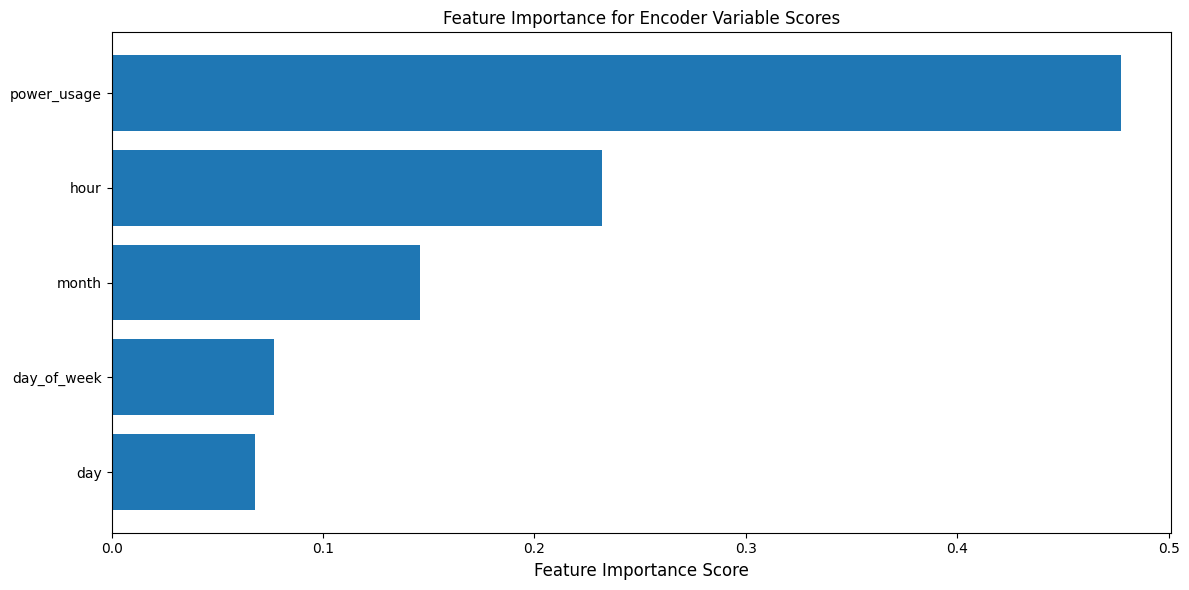
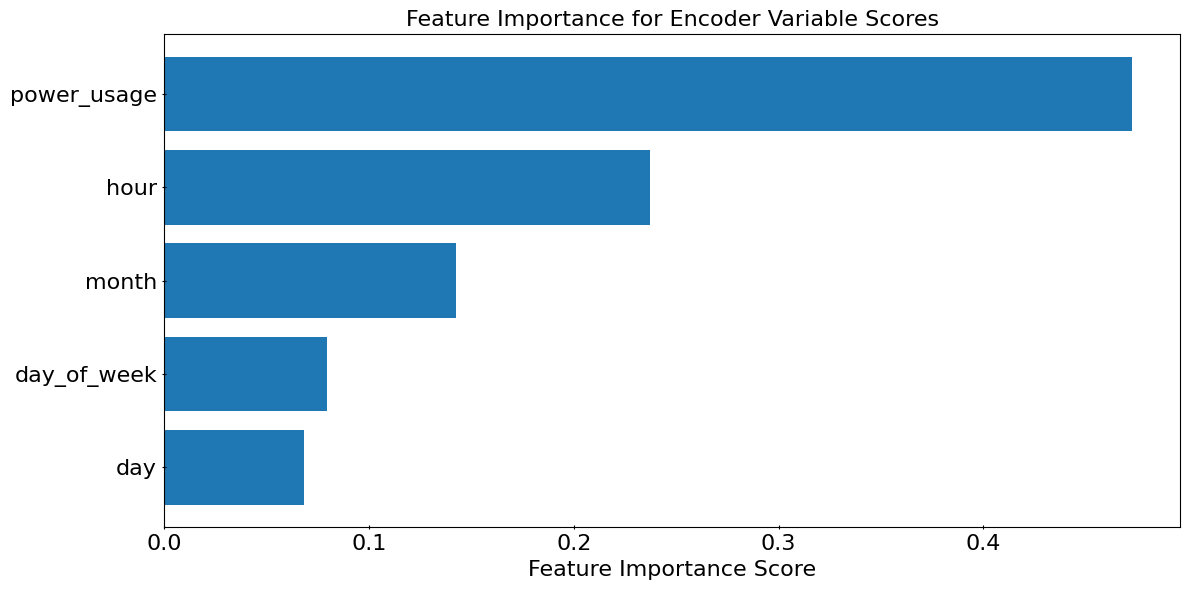
fix: increase font size for figure

Changed region(s): [[0.0, 0.0915, 0.9958, 0.9763], [0.1556, 0.0, 0.9647, 0.061], [0.4979, 0.2441, 0.5601, 0.3966]]

diff --git a/tft_interp.py b/tft_interp.py
@@ -70,7 +70,7 @@ class Visualizer:
         self,
         figsize: tuple = (12, 6),
         lw: float = 2,
-        fontsize: float = 12,
+        fontsize: float = 16,
         ndiv_x: int = 5,
         ndiv_y: int = 4,
     ) -> None:
@@ -280,7 +280,9 @@ class Visualizer:
         )
 
         # Show the plot
-        plt.title(f"Prediction with Attention Scores - horizon {horizon_idx}")
+        plt.title(
+            f"Prediction with Attention Scores - horizon {horizon_idx}", fontsize=self.fontsize
+        )
         fig.tight_layout()
 
         # Save figure
@@ -313,7 +315,8 @@ class Visualizer:
         axe = plt.axes()
         axe.barh(sorted_names, sorted_scores, color="tab:blue")
         axe.set_xlabel("Feature Importance Score", fontsize=self.fontsize)
-        plt.title(f"Feature Importance for {var_type}")
+        axe.tick_params(axis="both", which="both", direction="inout", labelsize=self.fontsize)
+        plt.title(f"Feature Importance for {var_type}", fontsize=self.fontsize)
         plt.gca().invert_yaxis()  # To display the feature with the highest score at the top
         plt.tight_layout()
 
